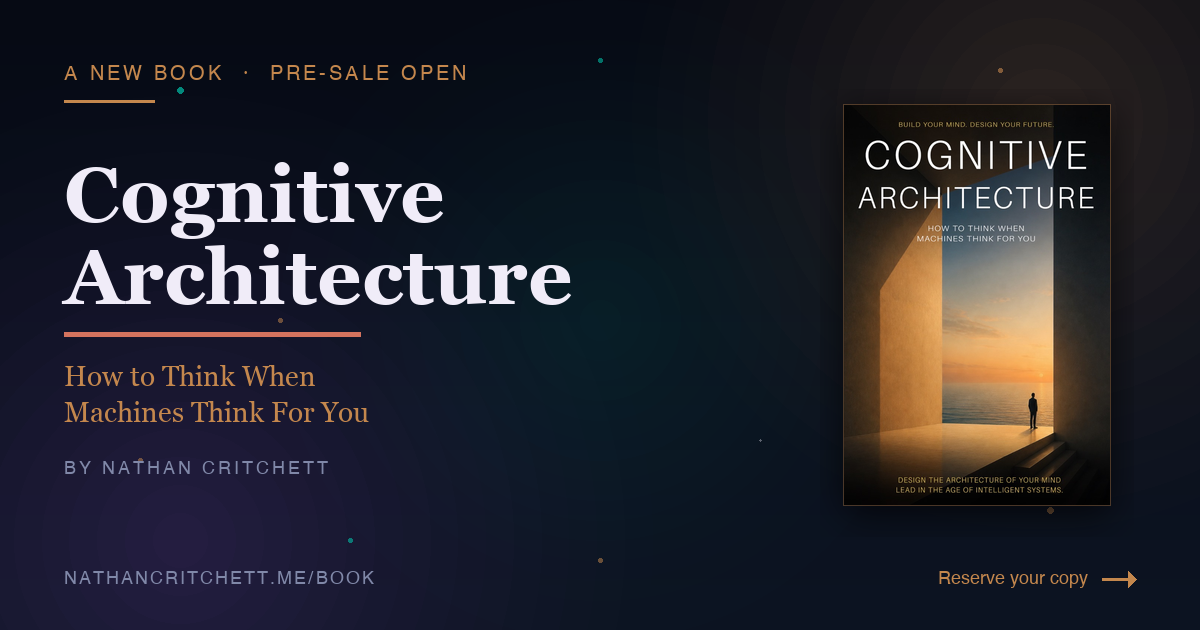
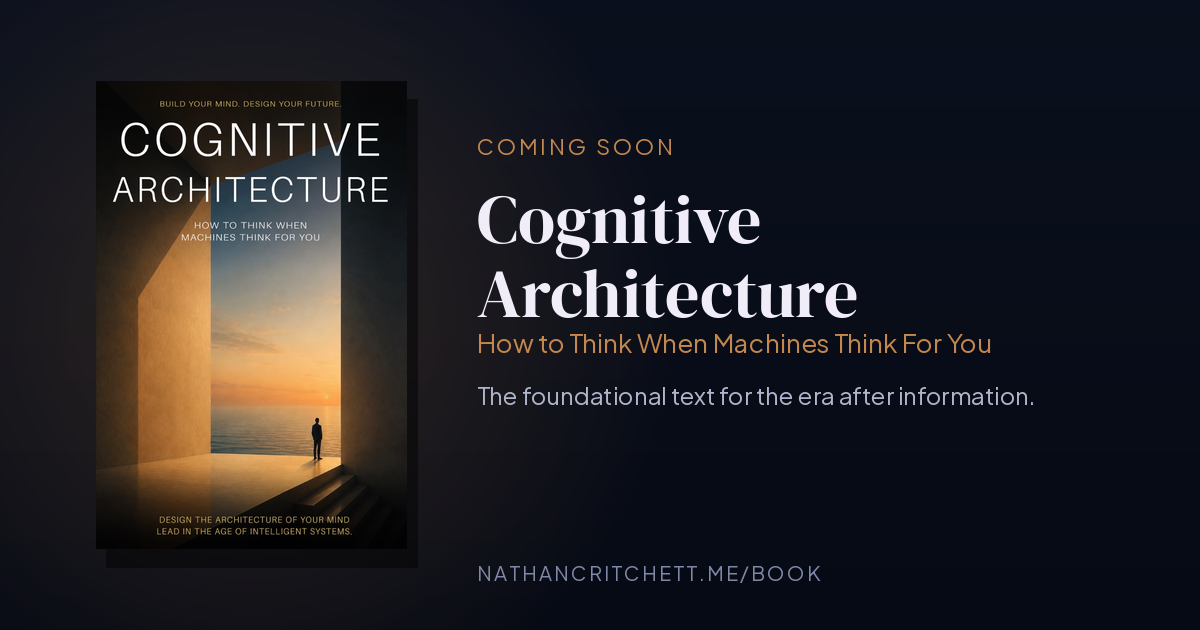
New OG share cards: baseball photo (home), book cover (book)
Generate on-brand 1200x630 cards with the real brand fonts: the homepage
card features the baseball photo plus the mission language; the book card
features the cover with the title and 'foundational text' tagline. Refresh
the share copy on both pages and bump the image cache versions. Add a
portable scripts/generate-social-cards.py.

Claude-Session: https://claude.ai/code/session_01TEYSKgtzo1TGXDxN8zybF7

diff --git a/book.html b/book.html
@@ -12,13 +12,13 @@
   <meta property="og:site_name" content="Nathan Critchett">
   <meta property="og:url" content="https://nathancritchett.me/book.html">
   <meta property="og:title" content="Cognitive Architecture by Nathan Critchett">
-  <meta property="og:description" content="A new book by Nathan Critchett. Five frameworks for thinking clearly when machines think for you. Pre-sale open.">
-  <meta property="og:image" content="https://nathancritchett.me/assets/og-book.png?v=2">
-  <meta property="og:image:secure_url" content="https://nathancritchett.me/assets/og-book.png?v=2">
+  <meta property="og:description" content="The foundational text for the era after information. A new book by Nathan Critchett on how to think when machines think for you. Pre-sale open.">
+  <meta property="og:image" content="https://nathancritchett.me/assets/og-book.png?v=3">
+  <meta property="og:image:secure_url" content="https://nathancritchett.me/assets/og-book.png?v=3">
   <meta property="og:image:type" content="image/png">
   <meta property="og:image:width" content="1200">
   <meta property="og:image:height" content="630">
-  <meta property="og:image:alt" content="Cognitive Architecture: A new book by Nathan Critchett. Pre-sale open.">
+  <meta property="og:image:alt" content="The cover of Cognitive Architecture, a new book by Nathan Critchett.">
   <meta property="book:author" content="Nathan Critchett">
   <meta property="book:release_date" content="2026">
 
@@ -27,9 +27,9 @@
   <meta name="twitter:site" content="@nathancritch">
   <meta name="twitter:creator" content="@nathancritch">
   <meta name="twitter:title" content="Cognitive Architecture: How to Think When Machines Think For You">
-  <meta name="twitter:description" content="A new book by Nathan Critchett. Five frameworks for the AI era. Pre-sale open.">
-  <meta name="twitter:image" content="https://nathancritchett.me/assets/og-book.png?v=2">
-  <meta name="twitter:image:alt" content="Cognitive Architecture: A new book by Nathan Critchett. Pre-sale open.">
+  <meta name="twitter:description" content="The foundational text for the era after information. A new book by Nathan Critchett. Pre-sale open.">
+  <meta name="twitter:image" content="https://nathancritchett.me/assets/og-book.png?v=3">
+  <meta name="twitter:image:alt" content="The cover of Cognitive Architecture, a new book by Nathan Critchett.">
 
   <!-- iMessage / SMS -->
   <meta name="apple-mobile-web-app-title" content="Cognitive Architecture">

diff --git a/index.html b/index.html
@@ -12,22 +12,22 @@
   <meta property="og:site_name" content="Nathan Critchett">
   <meta property="og:url" content="https://nathancritchett.me/">
   <meta property="og:title" content="Nathan Critchett">
-  <meta property="og:description" content="AI strategist, builder, and author of Cognitive Architecture. His work, his writing, and his book, in one place.">
-  <meta property="og:image" content="https://nathancritchett.me/assets/og-home.png?v=3">
-  <meta property="og:image:secure_url" content="https://nathancritchett.me/assets/og-home.png?v=3">
+  <meta property="og:description" content="AI strategist, builder, and author on a mission to empower every person to become the best version of themselves. The work, the writing, and the book.">
+  <meta property="og:image" content="https://nathancritchett.me/assets/og-home.png?v=4">
+  <meta property="og:image:secure_url" content="https://nathancritchett.me/assets/og-home.png?v=4">
   <meta property="og:image:type" content="image/png">
   <meta property="og:image:width" content="1200">
   <meta property="og:image:height" content="630">
-  <meta property="og:image:alt" content="Nathan Critchett: AI strategist, builder, and author.">
+  <meta property="og:image:alt" content="Nathan Critchett tossing a baseball: AI strategist, builder, and author.">
 
   <!-- Twitter / X -->
   <meta name="twitter:card" content="summary_large_image">
   <meta name="twitter:site" content="@nathancritch">
   <meta name="twitter:creator" content="@nathancritch">
   <meta name="twitter:title" content="Nathan Critchett">
-  <meta name="twitter:description" content="AI strategist, builder, and author of Cognitive Architecture. His work, his writing, and his book, in one place.">
-  <meta name="twitter:image" content="https://nathancritchett.me/assets/og-home.png?v=3">
-  <meta name="twitter:image:alt" content="Nathan Critchett: AI strategist, builder, and author.">
+  <meta name="twitter:description" content="AI strategist, builder, and author on a mission to empower every person to become the best version of themselves. The work, the writing, and the book.">
+  <meta name="twitter:image" content="https://nathancritchett.me/assets/og-home.png?v=4">
+  <meta name="twitter:image:alt" content="Nathan Critchett tossing a baseball: AI strategist, builder, and author.">
 
   <!-- iMessage / SMS -->
   <meta name="apple-mobile-web-app-title" content="Nathan Critchett">

diff --git a/scripts/generate-social-cards.py b/scripts/generate-social-cards.py
@@ -1,0 +1,171 @@
+#!/usr/bin/env python3
+import os
+from PIL import Image, ImageDraw, ImageFont
+
+ROOT = os.path.dirname(os.path.dirname(os.path.abspath(__file__)))
+A = os.path.join(ROOT, "assets")
+FONTS = os.path.join(ROOT, "scripts", "fonts")
+SERIF = os.path.join(FONTS, "DMSerifDisplay-Regular.ttf")
+SANS = os.path.join(FONTS, "PlusJakartaSans.ttf")
+W, H = 1200, 630
+
+ABYSS = (6, 10, 20)
+DEEP = (20, 30, 52)
+GOLD = (196, 135, 77)
+CORAL = (212, 115, 94)
+CLOUD = (240, 236, 248)
+MUTE = (176, 180, 204)
+DIM = (128, 136, 168)
+
+
+def font(path, size):
+    return ImageFont.truetype(path, size)
+
+
+def gradient_bg():
+    base = Image.new("RGB", (W, H), ABYSS)
+    top = Image.new("RGB", (W, H), DEEP)
+    mask = Image.new("L", (W, H), 0)
+    md = ImageDraw.Draw(mask)
+    for y in range(H):
+        md.line([(0, y), (W, y)], fill=int(70 * (1 - y / H)))
+    base = Image.composite(top, base, mask)
+    return base
+
+
+def glow(img, cx, cy, radius, color, max_alpha=70):
+    g = Image.new("RGBA", (W, H), (0, 0, 0, 0))
+    gd = ImageDraw.Draw(g)
+    steps = 60
+    for i in range(steps, 0, -1):
+        r = int(radius * i / steps)
+        a = int(max_alpha * (1 - i / steps))
+        gd.ellipse([cx - r, cy - r, cx + r, cy + r], fill=color + (a,))
+    img.paste(Image.alpha_composite(img.convert("RGBA"), g).convert("RGB"), (0, 0))
+    return img
+
+
+def tracked(draw, xy, text, fnt, fill, spacing):
+    x, y = xy
+    for ch in text:
+        draw.text((x, y), ch, font=fnt, fill=fill)
+        w = draw.textbbox((0, 0), ch, font=fnt)[2]
+        x += w + spacing
+    return x
+
+
+def wrap(draw, text, fnt, max_w):
+    words = text.split()
+    lines, cur = [], ""
+    for w in words:
+        t = (cur + " " + w).strip()
+        if draw.textbbox((0, 0), t, font=fnt)[2] <= max_w:
+            cur = t
+        else:
+            if cur:
+                lines.append(cur)
+            cur = w
+    if cur:
+        lines.append(cur)
+    return lines
+
+
+def cover_fill(src, tw, th):
+    """object-fit: cover crop of src to tw x th."""
+    sw, sh = src.size
+    scale = max(tw / sw, th / sh)
+    ns = (int(sw * scale + 0.5), int(sh * scale + 0.5))
+    r = src.resize(ns, Image.LANCZOS)
+    left = (ns[0] - tw) // 2
+    top = int((ns[1] - th) * 0.42)  # bias slightly up to keep face/ball
+    top = max(0, min(top, ns[1] - th))
+    return r.crop((left, top, left + tw, top + th))
+
+
+# ---------------- HOME CARD ----------------
+def home_card():
+    img = gradient_bg().convert("RGB")
+    img = glow(img, 980, 120, 460, GOLD, 55)
+
+    # photo panel on the right, blended at its left edge
+    pw = 470
+    photo = cover_fill(Image.open(os.path.join(A, "nathan-hero.jpg")).convert("RGB"), pw, H)
+    mask = Image.new("L", (pw, H), 255)
+    mdraw = ImageDraw.Draw(mask)
+    fade = 170
+    for x in range(fade):
+        for_col = int(255 * (x / fade))
+        mdraw.line([(x, 0), (x, H)], fill=for_col)
+    img.paste(photo, (W - pw, 0), mask)
+
+    d = ImageDraw.Draw(img)
+    padx = 76
+    # eyebrow
+    tracked(d, (padx, 92), "AI STRATEGIST  ·  BUILDER  ·  AUTHOR",
+            font(SANS, 24), GOLD, 2)
+    # name
+    name_f = font(SERIF, 92)
+    d.text((padx - 3, 150), "Nathan", font=name_f, fill=CLOUD)
+    d.text((padx - 3, 250), "Critchett", font=name_f, fill=CLOUD)
+    # mission
+    mis_f = font(SANS, 30)
+    lines = wrap(d, "On a mission to empower every person to become the best version of themselves.",
+                 mis_f, 620)
+    y = 385
+    for ln in lines:
+        d.text((padx, y), ln, font=mis_f, fill=MUTE)
+        y += 42
+    # url
+    tracked(d, (padx, 560), "NATHANCRITCHETT.ME", font(SANS, 20), DIM, 2)
+    img.save(os.path.join(A, "og-home.png"))
+    print("wrote og-home.png")
+
+
+# ---------------- BOOK CARD ----------------
+def book_card():
+    img = gradient_bg().convert("RGB")
+    img = glow(img, 250, 315, 440, GOLD, 55)
+    d = ImageDraw.Draw(img)
+
+    # book cover on the left with shadow
+    cover = Image.open(os.path.join(A, "book-cover.jpg")).convert("RGB")
+    ch = 468
+    cw = int(cover.size[0] * ch / cover.size[1])
+    cover = cover.resize((cw, ch), Image.LANCZOS)
+    cx, cy = 96, (H - ch) // 2
+    # shadow
+    shadow = Image.new("RGBA", (W, H), (0, 0, 0, 0))
+    sd = ImageDraw.Draw(shadow)
+    sd.rectangle([cx + 10, cy + 18, cx + cw + 10, cy + ch + 18], fill=(0, 0, 0, 120))
+    img.paste(Image.alpha_composite(img.convert("RGBA"), shadow).convert("RGB"), (0, 0))
+    img.paste(cover, (cx, cy))
+
+    tx = cx + cw + 70
+    maxw = W - tx - 70
+    # eyebrow
+    tracked(d, (tx, 132), "COMING SOON", font(SANS, 22), GOLD, 3)
+    # title
+    tf = font(SERIF, 68)
+    ty = 172
+    for ln in wrap(d, "Cognitive Architecture", tf, maxw):
+        d.text((tx, ty), ln, font=tf, fill=CLOUD)
+        ty += 74
+    # subtitle
+    sf = font(SANS, 26)
+    ty += 6
+    for ln in wrap(d, "How to Think When Machines Think For You", sf, maxw):
+        d.text((tx, ty), ln, font=sf, fill=GOLD)
+        ty += 36
+    # tagline
+    gf = font(SANS, 24)
+    ty += 18
+    for ln in wrap(d, "The foundational text for the era after information.", gf, maxw):
+        d.text((tx, ty), ln, font=gf, fill=MUTE)
+        ty += 34
+    tracked(d, (tx, 560), "NATHANCRITCHETT.ME/BOOK", font(SANS, 20), DIM, 2)
+    img.save(os.path.join(A, "og-book.png"))
+    print("wrote og-book.png")
+
+
+home_card()
+book_card()
